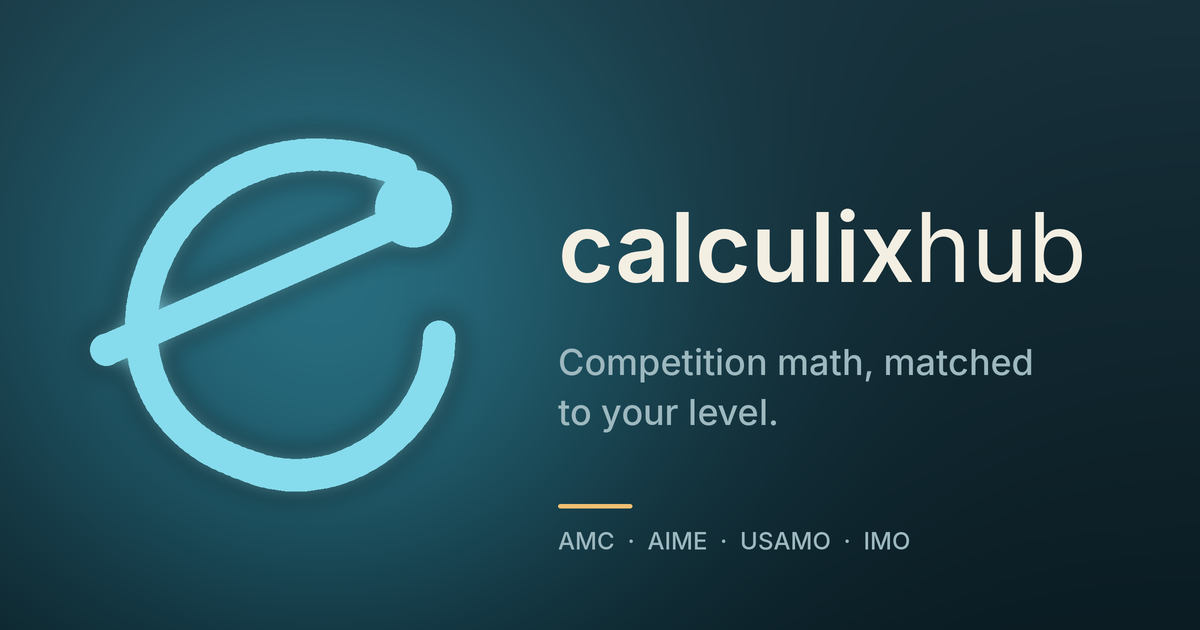
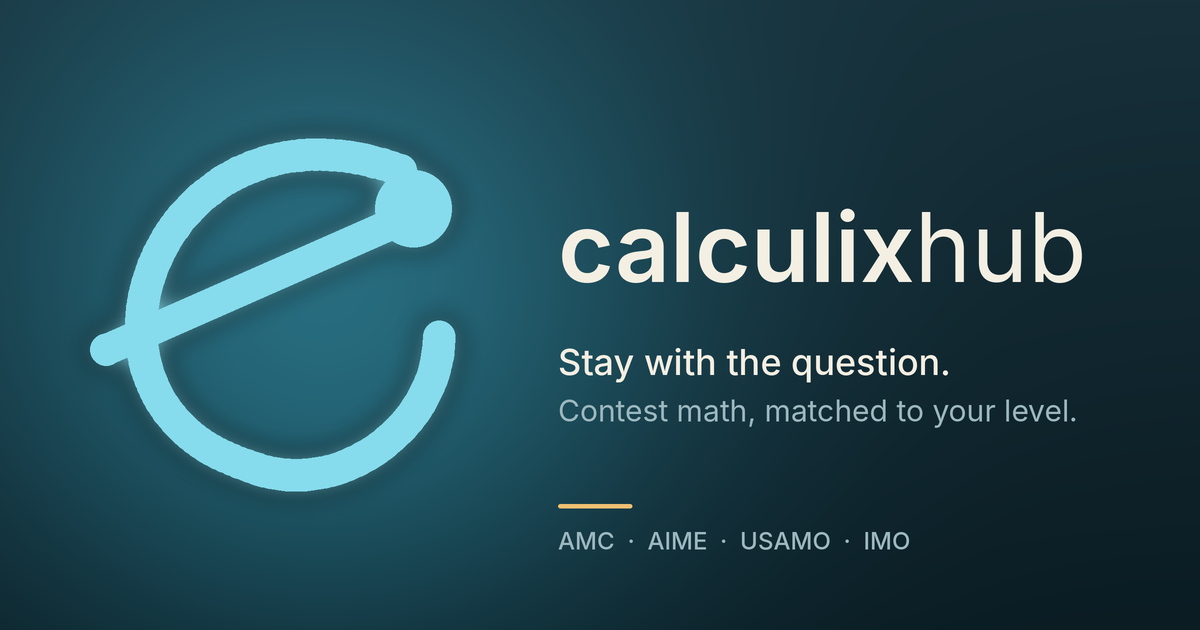
Align link-preview and install text with the site's own voice
The share card still read "Adaptive Math OS & AI Personalization" and "An
integrated EdTech platform...", words the site itself never uses. The tab
title ("A place to think") also disagreed with the og/twitter titles.

- og:title and twitter:title now equal the page title; every description
  (meta, og, twitter, web manifest, metadata.json) is the hero's own line:
  "Stay with the question. Contest math from AMC to IMO, with problems
  picked to fit your level and talked through one step at a time."
- Tighten the keywords to what the product is: contest practice, AMC to IMO.
- The web app's install name is just "CalculixHub".
- The 1200x630 card carries the same line; the printed report's subtitle
  becomes "A place to think".
- brand.test.ts keeps the tab, share card and manifest saying one thing and
  the description under the length previews truncate at.

Claude-Session: https://claude.ai/code/session_01HbonFgQA1nzN5CsiEuXx3U

Changed region(s): [[0.4625, 0.5429, 0.8633, 0.6032], [0.4625, 0.6333, 0.8942, 0.6937]]

diff --git a/index.html b/index.html
@@ -9,14 +9,14 @@
     -->
     <meta name="viewport" content="width=device-width, initial-scale=1.0, viewport-fit=cover" />
     <title>CalculixHub — A place to think</title>
-    <meta name="description" content="CalculixHub is a complete mathematics education ecosystem: AI-personalized adaptive learning (EduReach Core), live ranked competition, and real-time analytics for ambitious math students." />
-    <meta name="keywords" content="calculix, calculixhub, adaptive math learning, irt, item response theory, math olympiad training, ai math tutor, amc, aime, sat math" />
+    <meta name="description" content="Stay with the question. Contest math from AMC to IMO, with problems picked to fit your level and talked through one step at a time." />
+    <meta name="keywords" content="calculixhub, math competition practice, amc, aime, usamo, imo, math olympiad training, adaptive math practice, past papers, ai math tutor" />
     <meta name="author" content="Calculix Academic Board" />
 
     <!-- Open Graph / Facebook -->
     <meta property="og:type" content="website" />
-    <meta property="og:title" content="CalculixHub — Adaptive Math OS & AI Personalization" />
-    <meta property="og:description" content="An integrated EdTech platform with AI personalization, live ranked competition, and real-time adaptive analytics." />
+    <meta property="og:title" content="CalculixHub — A place to think" />
+    <meta property="og:description" content="Stay with the question. Contest math from AMC to IMO, with problems picked to fit your level and talked through one step at a time." />
     <meta property="og:site_name" content="CalculixHub" />
     <meta property="og:url" content="https://calculixhub.com/" />
     <!--
@@ -33,8 +33,8 @@
 
     <!-- Twitter -->
     <meta name="twitter:card" content="summary_large_image" />
-    <meta name="twitter:title" content="CalculixHub — Adaptive Math OS & AI Personalization" />
-    <meta name="twitter:description" content="An integrated EdTech platform with AI personalization, live ranked competition, and real-time adaptive analytics." />
+    <meta name="twitter:title" content="CalculixHub — A place to think" />
+    <meta name="twitter:description" content="Stay with the question. Contest math from AMC to IMO, with problems picked to fit your level and talked through one step at a time." />
     <meta name="twitter:image" content="https://calculixhub.com/og-image.png" />
     <meta name="twitter:image:alt" content="The CalculixHub logo, a lowercase e, beside the name calculixhub." />
 

diff --git a/src/components/brand.test.ts b/src/components/brand.test.ts
@@ -50,4 +50,20 @@ describe('the CalculixHub logo', () => {
     expect(ico.readUInt16LE(2)).toBe(1);
     expect(ico.readUInt16LE(4)).toBe(3);
   });
+
+  it('says the same thing in the tab, the share card and the install prompt', () => {
+    const html = read('index.html');
+    const content = (selector: string) => html.match(new RegExp(`<meta ${selector} content="([^"]*)"`))?.[1];
+    const title = html.match(/<title>([^<]*)<\/title>/)?.[1];
+    const description = content('name="description"');
+    expect(title).toBeTruthy();
+    expect(description).toBeTruthy();
+    expect(content('property="og:title"')).toBe(title);
+    expect(content('name="twitter:title"')).toBe(title);
+    expect(content('property="og:description"')).toBe(description);
+    expect(content('name="twitter:description"')).toBe(description);
+    expect(JSON.parse(read('public/manifest.webmanifest')).description).toBe(description);
+    // A link preview truncates at about this length.
+    expect(description!.length).toBeLessThanOrEqual(160);
+  });
 });

diff --git a/src/components/WelcomeScreen.tsx b/src/components/WelcomeScreen.tsx
@@ -664,7 +664,7 @@ export default function WelcomeScreen({ onLoginSuccess }: WelcomeScreenProps) {
           <div class="header">
             <div>
               <div class="logo"><svg viewBox="${MARK_VIEWBOX}" fill="none"><path d="${MARK_PATH}" stroke="currentColor" stroke-width="${MARK_STROKE}" stroke-linecap="round"/><circle cx="${MARK_DOT.cx}" cy="${MARK_DOT.cy}" r="${MARK_DOT.r}" fill="currentColor"/></svg>CalculixHub</div>
-              <div class="subtitle">Math OS &amp; AI Personalization Ecosystem</div>
+              <div class="subtitle">A place to think</div>
             </div>
             <div class="date">Generated: ${new Date().toLocaleString('en-US')}</div>
           </div>

diff --git a/scripts/generate-icons.py b/scripts/generate-icons.py
@@ -319,14 +319,15 @@ def render_og_card(width: int = 1200, height: int = 630) -> Image.Image:
     word_font = load_font(["Inter-SemiBold.otf", "Inter-SemiBold.ttf", "DejaVuSans-Bold.ttf"], 96 * ss)
     light_font = load_font(["Inter-Regular.otf", "Inter-Regular.ttf", "DejaVuSans.ttf"], 96 * ss)
     line_font = load_font(["Inter-Medium.otf", "Inter-Medium.ttf", "DejaVuSans.ttf"], 36 * ss)
+    small_line_font = load_font(["Inter-Regular.otf", "Inter-Regular.ttf", "DejaVuSans.ttf"], 30 * ss)
     small_font = load_font(["Inter-Medium.otf", "Inter-Medium.ttf", "DejaVuSans.ttf"], 24 * ss)
 
     word_y = h * 0.30
     draw.text((left, word_y), "calculix", font=word_font, fill=ON_NIGHT)
     calculix_width = draw.textlength("calculix", font=word_font)
     draw.text((left + calculix_width, word_y), "hub", font=light_font, fill=ON_NIGHT)
-    draw.text((left, h * 0.54), "Competition math, matched", font=line_font, fill=ON_NIGHT_MUTED)
-    draw.text((left, h * 0.54 + 50 * ss), "to your level.", font=line_font, fill=ON_NIGHT_MUTED)
+    draw.text((left, h * 0.54), "Stay with the question.", font=line_font, fill=ON_NIGHT)
+    draw.text((left, h * 0.54 + 52 * ss), "Contest math, matched to your level.", font=small_line_font, fill=ON_NIGHT_MUTED)
     draw.rounded_rectangle([left, h * 0.80, left + 74 * ss, h * 0.80 + 4 * ss], radius=2 * ss, fill="#f1c071")
     draw.text((left, h * 0.80 + 22 * ss), "AMC  \u00b7  AIME  \u00b7  USAMO  \u00b7  IMO", font=small_font, fill=ON_NIGHT_MUTED)
 
